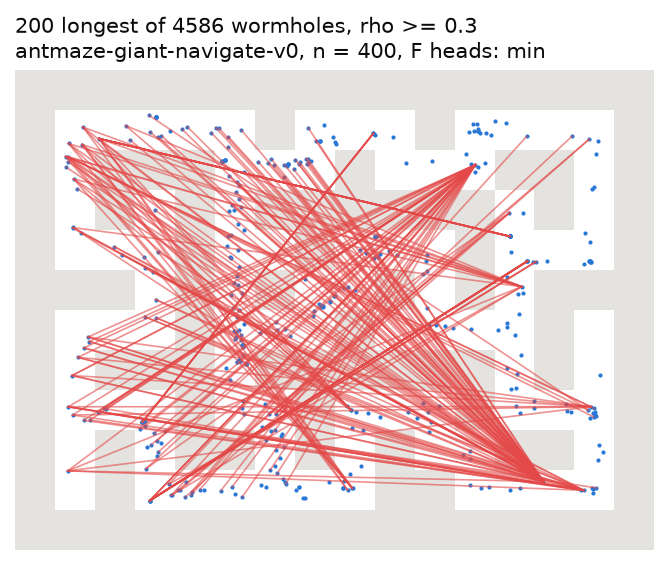
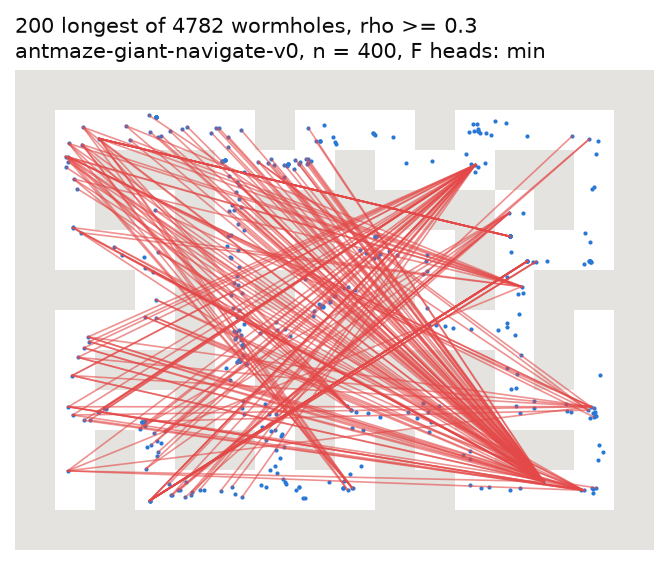
Use the Linux giant and teleport results in theory.md 11; add the teleport calibration
- 11.3: all rows from d-eval's Linux CSVs (teleport nonhier and both teleport-aware oracle
  runs, giant baseline, nonhier, oracle, planner, planner_high); trap shares for the new rows.
- 11.1: the FB checkpoint has learned the jump (teleport calibration, new figure).
- 11.2: giant calibration recomputed with the corner fix; bins against a raster geodesic,
  because MazeGeometry still passes through slits between edge-adjacent walls (reported to
  d-eval in the status file).

diff --git a/docs/theory.md b/docs/theory.md
@@ -316,10 +316,10 @@ exact controller; value from the task start (V* ≈ 11).
 ## 11. Bonus mazes: teleport and giant
 
 Runs: the protocol of design.md §5 (5 eval seeds × 5 tasks × 50 episodes, paired start states),
-method defaults. The final runs are on the Linux evaluation instance (d-eval, CSVs in
-`results/teleport/` and `results/giant/`, commands in `docs/status/b-theory.md`). §11.3 marks
-the rows that still come from preliminary Mac runs (`runs/mac/`, same code, MuJoCo 3.1.6); the
-Linux runs replace them.
+method defaults, on the Linux evaluation instance (d-eval, CSVs in `results/teleport/` and
+`results/giant/`, commands in `docs/status/b-theory.md`). Two replays of preliminary Mac runs
+(the giant oracle's progress in §11.2, the check of the trap rule in §11.3) say so; no table
+mixes the two platforms.
 
 ### 11.1 Teleport: the value is risk-neutral, the success metric is not
 
@@ -368,6 +368,25 @@ steps, c = 40, the median pace of successful medium episodes):
 - The best policy for the metric walks whenever the walk fits. On task 5 the walk does not fit
   at 40 steps per cell; the best policy then jumps once and walks from the far exit (2/3).
 
+**The FB checkpoint has learned the jump.** FB calibration on 400 val states (as in §11.2,
+`--env antmaze-teleport-navigate-v0`; γ = 0.99):
+
+![teleport calibration](figures/theory/calibration_antmaze-teleport-navigate-v0_min.png)
+
+- The median FB distance grows with the walking distance up to about 30 xy units, stays at
+  about 290 steps from 30 to 50 units, and falls beyond. For pairs 60–75 units apart on foot
+  (480–555 steps at the median speed; `0.99^walk` = 0.004–0.008), it is 150–190 steps:
+  `ρ̂` = 0.15–0.22. These pairs join the left and the right side of the maze, which the
+  teleporters connect. (Distances from an independent raster check; the figure's geodesic is
+  too short for some pairs, see the caveat in §11.2.)
+- A jump that is repeated after each bad exit is worth `(1/3) / (1 − γ^40/3) = 0.43` at γ = 0.99
+  and 40 steps per re-jump, times the discount of the walks to the entry and from the exit. So
+  `ρ̂` has the size of the risk-neutral jump value, not of the walk: FB estimates `E[γ^H]` of the
+  data policy, and the data policy jumps.
+- 5,135 pairs that pass the planner's ρ test (0.3 ≤ raw `ρ̂` < 1, before the xy cap) cannot be
+  walked: 4,671 lead into the trap (reachable only by a jump), 464 lead out of it (true ρ = 0).
+  Of all pairs into the trap, 20.6 % have raw `ρ̂` ≥ 0.3; of all pairs out of it, 2.0 %.
+
 **Consequences.** `E[γ^H]` at one γ is one point of the Laplace transform of H. It cannot tell
 "slow" from "sometimes never", so no planner on FB values alone can be optimal for `P(H ≤ T)`
 here. The graph planner with `R̂ = 0` maximises `Π ρ̂ = E[γ^H]` of the chain: risk-neutral too. Its
@@ -385,11 +404,12 @@ for tasks 1–4 (70 % for task 5). So with this π_l even a perfect high level f
 of tasks 1–4.
 
 The privileged oracle (true shortest path, waypoints 2 cells ahead) measures the pace on giant
-itself. On eval seed 0 it fails 249 of 250 episodes: 19 % of the failures are flips, the rest
-are still moving at the time limit. In 1,000 steps it covers a median of 14, 15.5, 6, 15 and 5
-cells of the 30-, 26-, 30-, 26- and 17-cell walks (d-eval's replay, `cells_left`), so 65–200
-steps per cell against about 40 on medium. On giant, π_l follows even perfect waypoints too
-slowly for the time limit; the route is not the bottleneck.
+itself. It succeeds in 2.5 % of the episodes (§11.3; 0 % on tasks 1 and 3). A replay of eval
+seed 0 of the preliminary Mac run (249 of 250 failures; d-eval's `replay_failures`) shows why:
+19 % of the failures are flips, the rest are still moving at the time limit. In 1,000 steps the
+oracle covers a median of 14, 15.5, 6, 15 and 5 cells of the 30-, 26-, 30-, 26- and 17-cell
+walks (`cells_left`), so 65–200 steps per cell against about 40 on medium. On giant, π_l follows
+even perfect waypoints too slowly for the time limit; the route is not the bottleneck.
 
 **ρ at long range.** The checkpoint uses γ = 0.995 (horizon 200 steps). A 1,000-step route has
 `ρ = 0.995^1000 = 0.0067`. FB calibration on 400 val states (d-eval's
@@ -398,18 +418,22 @@ slowly for the time limit; the route is not the bottleneck.
 
 ![giant calibration](figures/theory/calibration_antmaze-giant-navigate-v0_min.png)
 
-- The median FB distance `−log ρ̂ / −log γ` grows with the geodesic only up to about 45 xy units
-  (11 cells); beyond that it sits at the cap. The task walks are 17–30 cells (68–120 xy units
-  between cell centres). The quartiles are 200–400 steps apart already at 15–20 units (medium:
-  a narrow band up to 25).
-- Caveat: the calibration's point geodesic passes between two walls that touch only at a
-  corner (4 such places in giant, 2 in medium and in teleport), which the ant cannot do. It
-  makes some pairs look closer than they are; the giant task 5 measures 21 xy units, but its
-  walk is 17 cells.
-- `ρ̂ ≤ 0` (clipped to 0) for 23.9 % of the pairs (medium 10.2 %). At ρ_min 0.3, 10.6 % of the
+- The median FB distance `−log ρ̂ / −log γ` grows with the walking distance over the whole
+  range, at 1.2–1.7 times the walk at the median speed of the data (5–65 xy units), and passes
+  the 600-step cap (`ρ̂` < 0.05) at about 65 units. The spread is wide: from 20 units (5 cells)
+  on, the upper quartile is at the cap, and 26–60 % of the pairs have `ρ̂` < 0.05. The task
+  walks are 52–92 units on foot (420–740 steps at the median speed, `0.995^walk` = 0.02–0.12).
+  (Bins of an independent raster check; see the caveat.)
+- Caveat: the figure's point geodesic (`MazeGeometry.geodesic_distances`) is too short for some
+  pairs. Two wall cells that share an edge leave a thin slit after the shrink of the wall boxes,
+  and a straight segment along that grid line passes between them. The giant task 5 measures
+  21.2 xy units, but its walk is 17 cells (raster check: 51.9). Against an octile Dijkstra on a
+  0.5-unit raster (at most 8 % too long), 31 % of the giant pairs are more than 15 % too short
+  (large 13 %, teleport 16 %, medium 0.2 %). The bins in this section use the raster distance.
+- `ρ̂ ≤ 0` (clipped to 0) for 23.9 % of the pairs (medium 10.2 %). At ρ_min 0.3, 11.1 % of the
   trusted pairs are wormholes in d-eval's sense (FB distance shorter than the walk at the ant's
-  top speed; medium 5.5 %), some across the whole maze (longest geodesic 69 xy units). The
-  planner's 6-unit xy cap removes all but 801 of the 4,586 (table:
+  top speed; medium 5.5 %), some across the whole maze. With the slit issue this count is a
+  lower bound. The planner's 6-unit xy cap removes all but 801 of the 4,782 (table:
   `docs/figures/theory/wormholes_antmaze-giant-navigate-v0_min.csv`):
 
 ![giant wormholes](figures/theory/wormholes_antmaze-giant-navigate-v0_min.png)
@@ -422,57 +446,76 @@ well inside the calibrated range). Chaining cannot fix the time budget or the fl
 ### 11.3 Measured results
 
 Success (%), 95 % stratified bootstrap CI, paired difference against the baseline on the same
-episodes: `uv run python analysis/tables.py results/teleport/*.csv results/teleport/planner*/*.csv
---label-root results/teleport --cluster config_hash`. Planner rows pool landmark sets 0–2
-(3,750 episodes, cluster bootstrap over the sets).
+episodes: `uv run python analysis/tables.py results/<maze>/*.csv results/<maze>/planner*/*.csv
+--label-root results/<maze> --cluster config_hash`. Planner rows pool landmark sets 0–2 (3,750
+episodes, cluster bootstrap over the sets). The oracles are privileged: they read the maze map.
 
 | teleport | task 1 | task 2 | task 3 | task 4 | task 5 | all | vs. baseline (pp) |
 |---|---|---|---|---|---|---|---|
 | baseline | 22.8 | 43.6 | 29.2 | 24.4 | 18.4 | 27.7 [25.3, 30.2] | |
 | baseline_raw (upstream z_r) | 18.8 | 39.6 | 26.4 | 21.2 | 14.8 | 24.2 [21.8, 26.6] | −3.5 [−6.2, −1.0] |
+| nonhier | 17.6 | 21.6 | 23.6 | 18.4 | 14.0 | 19.0 [16.9, 21.2] | −8.6 [−11.2, −6.2] |
 | planner | 17.5 | 24.8 | 20.3 | 15.6 | 14.7 | 18.6 [16.5, 21.0] | −9.1 [−12.2, −6.0] |
 | planner_high | 17.1 | 33.6 | 28.1 | 21.7 | 19.9 | 24.1 [21.5, 26.4] | −3.6 [−6.7, −0.5] |
-| nonhier (Mac, preliminary) | 20.8 | 25.2 | 15.2 | 16.4 | 17.6 | 19.0 [16.9, 21.2] | −9.8 vs. the Mac baseline (28.8) |
-
-Giant, preliminary Mac runs (planner not run):
+| teleport-aware oracle, π_l follows | 2.8 | 8.4 | 8.0 | 3.2 | 5.6 | 5.6 [4.3, 6.9] | −22.1 [−24.7, −19.5] |
+| teleport-aware oracle, π_h follows | 7.2 | 60.4 | 27.2 | 3.2 | 8.8 | 21.4 [19.4, 23.3] | −6.3 [−9.2, −3.4] |
 
 | giant | task 1 | task 2 | task 3 | task 4 | task 5 | all | vs. baseline (pp) |
 |---|---|---|---|---|---|---|---|
-| baseline | 0.0 | 0.0 | 0.0 | 1.6 | 1.2 | 0.6 [0.2, 1.0] | |
-| nonhier | 0.0 | 2.0 | 0.0 | 1.2 | 0.4 | 0.7 [0.3, 1.2] | +0.2 (p 0.8) |
-| oracle (privileged) | 0.0 | 3.6 | 0.0 | 0.8 | 6.8 | 2.2 [1.5, 3.0] | +1.7 (p 3e-4) |
+| baseline | 0.0 | 0.0 | 0.0 | 1.2 | 1.2 | 0.5 [0.2, 0.9] | |
+| nonhier | 0.0 | 0.8 | 0.0 | 0.8 | 0.8 | 0.5 [0.2, 0.9] | +0.0 [−0.6, +0.6] |
+| planner | 0.0 | 0.5 | 0.0 | 0.0 | 1.5 | 0.4 [0.2, 0.7] | −0.1 [−0.6, +0.4] |
+| planner_high | 0.0 | 0.4 | 0.0 | 0.1 | 3.5 | 0.8 [0.5, 1.1] | +0.3 [−0.2, +0.9] |
+| oracle | 0.0 | 5.2 | 0.0 | 2.0 | 5.2 | 2.5 [1.7, 3.4] | +2.0 [+1.1, +3.0] |
 
 **Teleport: most failures end in the trap.** A trapped ant ends its episode inside cell (1,7), so
 its final distance to the goal is within 2 xy units of the trap centre's (26.8 for goal (7,10),
-33.9 for goal (7,1)). On eval seed 0 of the baseline this rule finds all 129 trapped episodes of
-an exact replay (d-eval's `replay_failures`, trap = `cells_left = −1`) and adds 3 of the 48 other
-failures (Mac CSV). Over all episodes:
+33.9 for goal (7,1)). On eval seed 0 of the Mac baseline this rule finds all 129 trapped
+episodes of an exact replay (d-eval's `replay_failures`, trap = `cells_left = −1`) and adds 3 of
+the 48 other failures. (`analysis/failures.py` now has the exact `trapped` class; the rule here
+needs only the CSV.) Over all episodes:
 
 | teleport | success | trap | other failures |
 |---|---|---|---|
 | baseline | 27.7 % | 54.7 % | 17.6 % |
 | baseline_raw | 24.2 % | 57.4 % | 18.4 % |
+| nonhier | 19.0 % | 65.4 % | 15.6 % |
 | planner | 18.6 % | 64.2 % | 17.3 % |
 | planner_high | 24.1 % | 53.9 % | 22.1 % |
-| nonhier (Mac) | 19.0 % | 64.5 % | 16.5 % |
+| teleport-aware oracle, π_l follows | 5.6 % | 19.9 % | 74.5 % |
+| teleport-aware oracle, π_h follows | 21.4 % | 18.2 % | 60.5 % |
 
 - A policy that jumps until it lands on a good exit ends in the trap half the time (Proposition
-  4). All agents end there more often: they also jump when the walk is short, and they jump
-  again after a good exit when π_l does not finish.
+  4). All learned agents end there more often: they also jump when the walk is short, and they
+  jump again after a good exit when π_l does not finish.
 - The planner plans walks (its xy cap removes the jump edges), yet 64 % of its episodes end in
   the trap. π_h after the waypoint (planner_high) is as trapped as the baseline (54 %) and
   recovers most of the gap (−3.6 pp against −9.1 pp).
-- π_l walks into the entries by itself: on dev episodes (eval seed 100, not used for any
-  reported number) the teleport-aware oracle with waypoints *below* (5,6) still saw π_l walk up
-  into entry (4,6) and jump to the trap. The data explain this: trajectories that leave (5,6)
-  go up 91 times and down 2 times (§11.1). π_l learned the expert's route through the entries.
-- On the same 30 dev episodes, the teleport-aware oracle succeeded 2/30 with π_l and 6/30 when
-  π_h follows the waypoints, against 8/30 for the baseline. Even with the true risk-free route,
-  waypoint following with this π_l fails on teleport (it also stalls at corners). So on
-  teleport the frozen π_l, not the plan, sets the ceiling; Proposition 4 adds a second ceiling
-  for any agent that maximises a discounted value.
+- The risk-free route of the teleport-aware oracle cuts the trap share by about two thirds
+  (18–20 % against 55 %), but not to 0. On tasks 1 and 2, at most 4 % of its episodes end in the
+  trap; on task 4, 13–17 %; on tasks 3 and 5, 37–39 %. Tasks 3 and 5 start at (5,6), one cell
+  below entry (4,6). The plan walks down, but π_l and π_h walk up: trajectories in the data that
+  leave (5,6) go up 91 times and down 2 times (§11.1). The executor learned the expert's route
+  through the entries.
+- The oracle's other failures are timeouts near the goal: a median final distance of 13–17 xy
+  units (3–4 cells) on tasks 1, 2, 3 and 5, and 36 on task 4. The safe walks of tasks 1, 4 and 5
+  (23, 25 and 27 cells) fit in 1,000 steps only at ≤ 43, 40 and 37 steps per cell, and waypoint
+  following is slower than that (it stalls at corners; on giant 65–200 steps per cell, §11.2).
+  π_l follows the oracle's region latents worse than π_h does (5.6 % against 21.4 %).
+- Where the route and the executor agree, the route helps. The shortest path of task 2 (15
+  cells) passes no entry, so the oracle's route is the data's route. With π_h following, the
+  oracle reaches 60.4 % against 43.6 % for the baseline on that task (+16.8 pp [+8.0, +25.6],
+  paired, episode bootstrap). Over all tasks it loses 6.3 pp.
 
-**Giant: the executor is the bottleneck.** The baseline and nonhier are equal (0.6 % and 0.7 %).
-The privileged oracle reaches only 2.2 %; its failures are mostly slow progress (§11.2:
-5–15.5 cells covered in 1,000 steps, 19 % flips). A planner can at most supply the route, and
-the oracle shows that the route alone is worth about +1.7 points here.
+So on teleport the frozen executor, not the plan, sets the ceiling: the risk-free route removes
+most jumps, but π_l and π_h still take the entry next to their start, and the long safe walks do
+not fit in the time limit at their pace. Proposition 4 adds a second ceiling for any agent that
+maximises a discounted value.
+
+**Giant: the executor is the bottleneck.** The baseline and nonhier are equal (0.5 %). The
+privileged oracle reaches 2.5 % (+2.0 pp); its failures are mostly slow progress (§11.2). Neither
+planner differs from the baseline (−0.1 and +0.3 pp, both CIs contain 0). Most planner
+successes are on task 5, the shortest walk (17 cells; it fits at ≤ 59 steps per cell):
+planner_high reaches 3.5 % there against 1.2 % for the baseline (+2.3 pp [−0.1, +4.8], paired,
+episode bootstrap over the pooled sets), and the oracle 5.2 %. A planner can at most supply the
+route, and the oracle shows that the route alone is worth about +2 points here.

diff --git a/docs/status/b-theory.md b/docs/status/b-theory.md
@@ -1,8 +1,8 @@
 # Status: b-theory
 
-Last update: 2026-10-29. Branch merged with `main` 3e36461. Item 15 (bonus mazes): code, theory
-and preliminary Mac runs done; final runs wait in d-eval's Linux queue (group d), commands
-below. Review: first pass (B1–B15, X2, X13, X7 my part, K2) and second pass (B16–B21) done.
+Last update: 2026-10-29. Branch merged with `main` 28f6aba. Item 15 (bonus mazes) done: all
+final numbers are d-eval's Linux runs, theory.md §11 uses them. Review: first pass (B1–B15, X2,
+X13, X7 my part, K2) and second pass (B16–B21) done.
 
 ## Done
 
@@ -20,8 +20,10 @@ below. Review: first pass (B1–B15, X2, X13, X7 my part, K2) and second pass (B
   - `docs/theory.md` §11: teleport (risk-neutral value vs. success metric) and giant (time budget,
     ρ at long range).
   - Evaluations on the Mac stopped by the coordinator's decision (Linux is the platform for final
-    numbers). Finished Mac CSVs are in `runs/mac/{giant,teleport}/` (not committed); theory.md
-    §11.3 quotes them as preliminary.
+    numbers). d-eval ran the commands below on Linux; theory.md §11.3 uses only those CSVs. The
+    old Mac CSVs stay in `runs/mac/{giant,teleport}/` (not committed).
+  - FB calibration on giant (again, with d-eval's corner fix) and on teleport (new), figures and
+    tables in `docs/figures/theory/`. Found a second geodesic leak (Requests).
 
 ## Review (g-release, first pass)
 
@@ -93,32 +95,40 @@ below. Review: first pass (B1–B15, X2, X13, X7 my part, K2) and second pass (B
 
 ## Results
 
-Teleport, Linux (final; main 43a03db), 5 eval seeds × 5 tasks × 50 episodes, planner rows pool
-landmark sets 0–2; success % [95 % CI], paired against the baseline:
+Linux (d-eval, main 28f6aba), 5 eval seeds × 5 tasks × 50 episodes, planner rows pool landmark
+sets 0–2; success % [95 % CI], paired against the baseline on the same episodes. Trap: failed
+episode whose final goal distance is within 2 xy units of the trap centre's.
 
-| method | all | vs. baseline | trap |
+| teleport | all | vs. baseline (pp) | trap |
 |---|---|---|---|
 | baseline | 27.7 [25.3, 30.2] | – | 54.7 % |
-| baseline_raw | 24.2 [21.8, 26.6] | −3.5 pp [−6.2, −1.0] | 57.4 % |
-| planner | 18.6 [16.5, 21.0] | −9.1 pp [−12.2, −6.0] | 64.2 % |
-| planner_high | 24.1 [21.5, 26.4] | −3.6 pp [−6.7, −0.5] | 53.9 % |
+| baseline_raw | 24.2 [21.8, 26.6] | −3.5 [−6.2, −1.0] | 57.4 % |
+| nonhier | 19.0 [16.9, 21.2] | −8.6 [−11.2, −6.2] | 65.4 % |
+| planner | 18.6 [16.5, 21.0] | −9.1 [−12.2, −6.0] | 64.2 % |
+| planner_high | 24.1 [21.5, 26.4] | −3.6 [−6.7, −0.5] | 53.9 % |
+| teleport-aware oracle, π_l | 5.6 [4.3, 6.9] | −22.1 [−24.7, −19.5] | 19.9 % |
+| teleport-aware oracle, π_h | 21.4 [19.4, 23.3] | −6.3 [−9.2, −3.4] | 18.2 % |
 
-Still preliminary (Mac, MuJoCo 3.1.6, planner code of f1ae57d; `runs/mac/`, not committed):
+| giant | all | vs. baseline (pp) |
+|---|---|---|
+| baseline | 0.5 [0.2, 0.9] | – |
+| nonhier | 0.5 [0.2, 0.9] | +0.0 [−0.6, +0.6] |
+| planner | 0.4 [0.2, 0.7] | −0.1 [−0.6, +0.4] |
+| planner_high | 0.8 [0.5, 1.1] | +0.3 [−0.2, +0.9] |
+| oracle (privileged) | 2.5 [1.7, 3.4] | +2.0 [+1.1, +3.0] |
 
-| maze | baseline | nonhier | oracle |
-|---|---|---|---|
-| teleport | 28.8 [26.4, 31.2] | 19.0 [16.9, 21.2], −9.8 pp | – |
-| giant | 0.6 [0.2, 1.0] | 0.7 [0.3, 1.2], +0.2 pp | 2.2 [1.5, 3.0], +1.7 pp (privileged) |
-
-- Teleport: 54–64 % of all episodes end in the trap exit (Linux; nonhier 65 % on the Mac).
-  An exact risk-neutral agent (max `E[γ^H]`, γ = 0.99) takes the teleporter on every task and
-  succeeds with probability ≤ 1/2; it walks only for γ ≥ 0.9977–0.9993 (theory.md §11.1).
-  π_l itself walks into the entries (the data route through them: 91 up vs. 2 down at (5,6)).
-- Giant: even privileged waypoints give 2.2 %. π_l covers 5–15.5 cells in 1,000 steps (walks
-  are 17–30 cells; 19 % of oracle failures are flips). The executor, not the route, is the
-  bottleneck. FB distance stops tracking the geodesic beyond about 45 xy units.
-- Teleport oracle on 30 dev episodes (eval seed 100): 2/30 with π_l, 6/30 with `follow=pi_h`,
-  baseline 8/30.
+- Teleport: no method beats the baseline. 54–65 % of the episodes of the learned agents end in
+  the trap. An exact risk-neutral agent (max `E[γ^H]`, γ = 0.99) jumps on every task and
+  succeeds with probability ≤ 1/2 (theory.md §11.1). The FB checkpoint has learned the jump:
+  for pairs 60–75 xy units apart on foot, `ρ̂` is 0.15–0.22, against 0.004–0.008 for the walk.
+- Teleport-aware oracle: the risk-free route cuts the trap share to 18–20 %, but π_l and π_h
+  still walk into entry (4,6) next to the start of tasks 3 and 5 (37–39 % trapped there), and
+  the long safe walks time out. On task 2 (no entry on the route) it gains +16.8 pp
+  [+8.0, +25.6] with π_h.
+- Giant: no planner gain. Even privileged waypoints give 2.5 %: π_l covers 5–15.5 cells in
+  1,000 steps (Mac replay, eval seed 0), and the walks are 17–30 cells. FB distance grows with
+  the walk at 1.2–1.7 times the walk time, but from 5 cells on, the upper quartile is at the
+  cap (`ρ̂` < 0.05).
 
 ## Commands for d-eval (Linux evaluation instance)
 
@@ -149,7 +159,7 @@ In the `RUNS` format of `scripts/reproduce.sh` (maze, CSV, eval seeds, method, o
     giant    planner_high/l1.csv     5 planner_high landmarks.seed=1
     giant    planner_high/l2.csv     5 planner_high landmarks.seed=2
 
-After the runs (analysis, for theory.md §11.2–11.3):
+Analysis for theory.md §11.2–11.3 (done on the Mac; tables only):
 
     uv run python analysis/tables.py results/teleport/*.csv results/teleport/planner*/*.csv --label-root results/teleport --cluster config_hash
     uv run python analysis/tables.py results/giant/*.csv results/giant/planner*/*.csv --label-root results/giant --cluster config_hash
@@ -159,14 +169,16 @@ Docs figures and tables (Mac, light):
 
     uv run python -m fbplan.tabular.time_limit        # docs/figures/theory/time_limit*.{csv,png}
     uv run python analysis/calibration.py --env antmaze-giant-navigate-v0 --out-dir docs/figures/theory --table-dir docs/figures/theory
+    uv run python analysis/calibration.py --env antmaze-teleport-navigate-v0 --out-dir docs/figures/theory --table-dir docs/figures/theory
     uv run python -m fbplan.tabular.run_study --workers 4 && uv run python -m fbplan.tabular.study_plots
 
 ## Next
 
-- Teleport baseline, baseline_raw, planner and planner_high are final in theory.md §11.3. When
-  d-eval commits teleport nonhier, the two oracle_teleport runs and the giant runs: replace the
-  remaining Mac rows (and the trap shares: final distance within 2 xy units of the trap
-  centre's distance to the goal).
+- When d-eval fixes the slit leak in `MazeGeometry.geodesic_distances` (Requests): run the two
+  calibration commands again, and replace the raster-check numbers in theory.md §11.1–11.2 with
+  the bins of the fixed figure.
+- If d-eval commits the Linux failure classes of the giant oracle: replace the Mac replay facts
+  in theory.md §11.2.
 
 ## Blockers
 
@@ -174,15 +186,23 @@ Docs figures and tables (Mac, light):
 
 ## Requests to the coordinator
 
-- Please assign `tests/test_oracle_teleport.py` to b-theory (design.md §6), if not done.
-- g-release (X11 flag renames, merge together with this branch): `scripts/reproduce.sh:268-269`
-  becomes `py -m fbplan.tabular.study_plots "$theory_dir"` and
-  `py -m fbplan.tabular.time_limit --out-dir "$theory_dir"`.
-- d-eval: `MazeGeometry.geodesic_distances` lets a point pass between two walls that touch only
-  at a corner (giant 4 places, medium 2, teleport 2). The ant cannot pass there, so some
-  calibration pairs look closer than they are (giant task 5: 21 xy units, walk 17 cells).
-- d-eval: `analysis/calibration.py` failed on teleport (`geodesic.max()` is inf: the trap exit
-  cannot be reached on foot). `analysis/failures.py` could report a "trapped" class
-  (`cells_left = −1`); I used `replay_failures` from a scratch script.
-- d-eval: please run the commands in "Commands for d-eval" on the Linux instance and commit the
-  CSVs to `results/{giant,teleport}/`.
+- Please assign `tests/test_oracle_teleport.py` to b-theory (design.md §6 line 157 does not list
+  it yet).
+- g-release (X11 flag renames): `scripts/reproduce.sh:272-273` still use the old flags and fail
+  with the current CLIs. They become `py -m fbplan.tabular.study_plots "$theory_dir"` and
+  `py -m fbplan.tabular.time_limit --out-dir "$theory_dir"`. The giant and teleport runs are in
+  "Commands for d-eval" above.
+- d-eval: `MazeGeometry.geodesic_distances` still lets a point pass through walls. Two wall cells
+  that share an edge leave a slit of 2e-6 (`_WALL_SHRINK`), and a segment that lies exactly on
+  that grid line passes between them. The corner graph has many such segments (corner to corner
+  along a grid line). Example: giant task 5, (32, 16) → (28, 8), measures 21.2 xy units via the
+  corners (34, 18) → (34, 6), down x = 34 between walls (4, 9) and (4, 10); the walk is 17 cells.
+  Check against an octile Dijkstra on a 0.5-unit raster (at most 8 % too long): pairs of the
+  400-state calibration sample more than 15 % too short: giant 31 %, large 13 %, teleport 16 %,
+  medium 0.2 %. Task geodesics, MazeGeometry vs. raster: giant 76.4/75.1/69.0/51.1/21.2 vs.
+  91.7/81.8/83.8/78.2/51.9; large task 2 21.2 vs. 55.7. It affects the large and giant
+  calibration figures and wormhole counts (`results/calibration/`), not medium. A possible fix:
+  block a segment that runs along a grid line where the cells on both sides are walls (or test
+  the midpoint of each grid-cell crossing against the unshrunk walls). My check script:
+  `/private/tmp/claude-501/-Users-ssbars-Documents-work-tbank-robots--worktrees-b-theory/9eb5871f-f0ef-430e-94a3-2c926e648b0f/scratchpad/geo_check.py`
+  (I can commit it if you want it in the repo).
